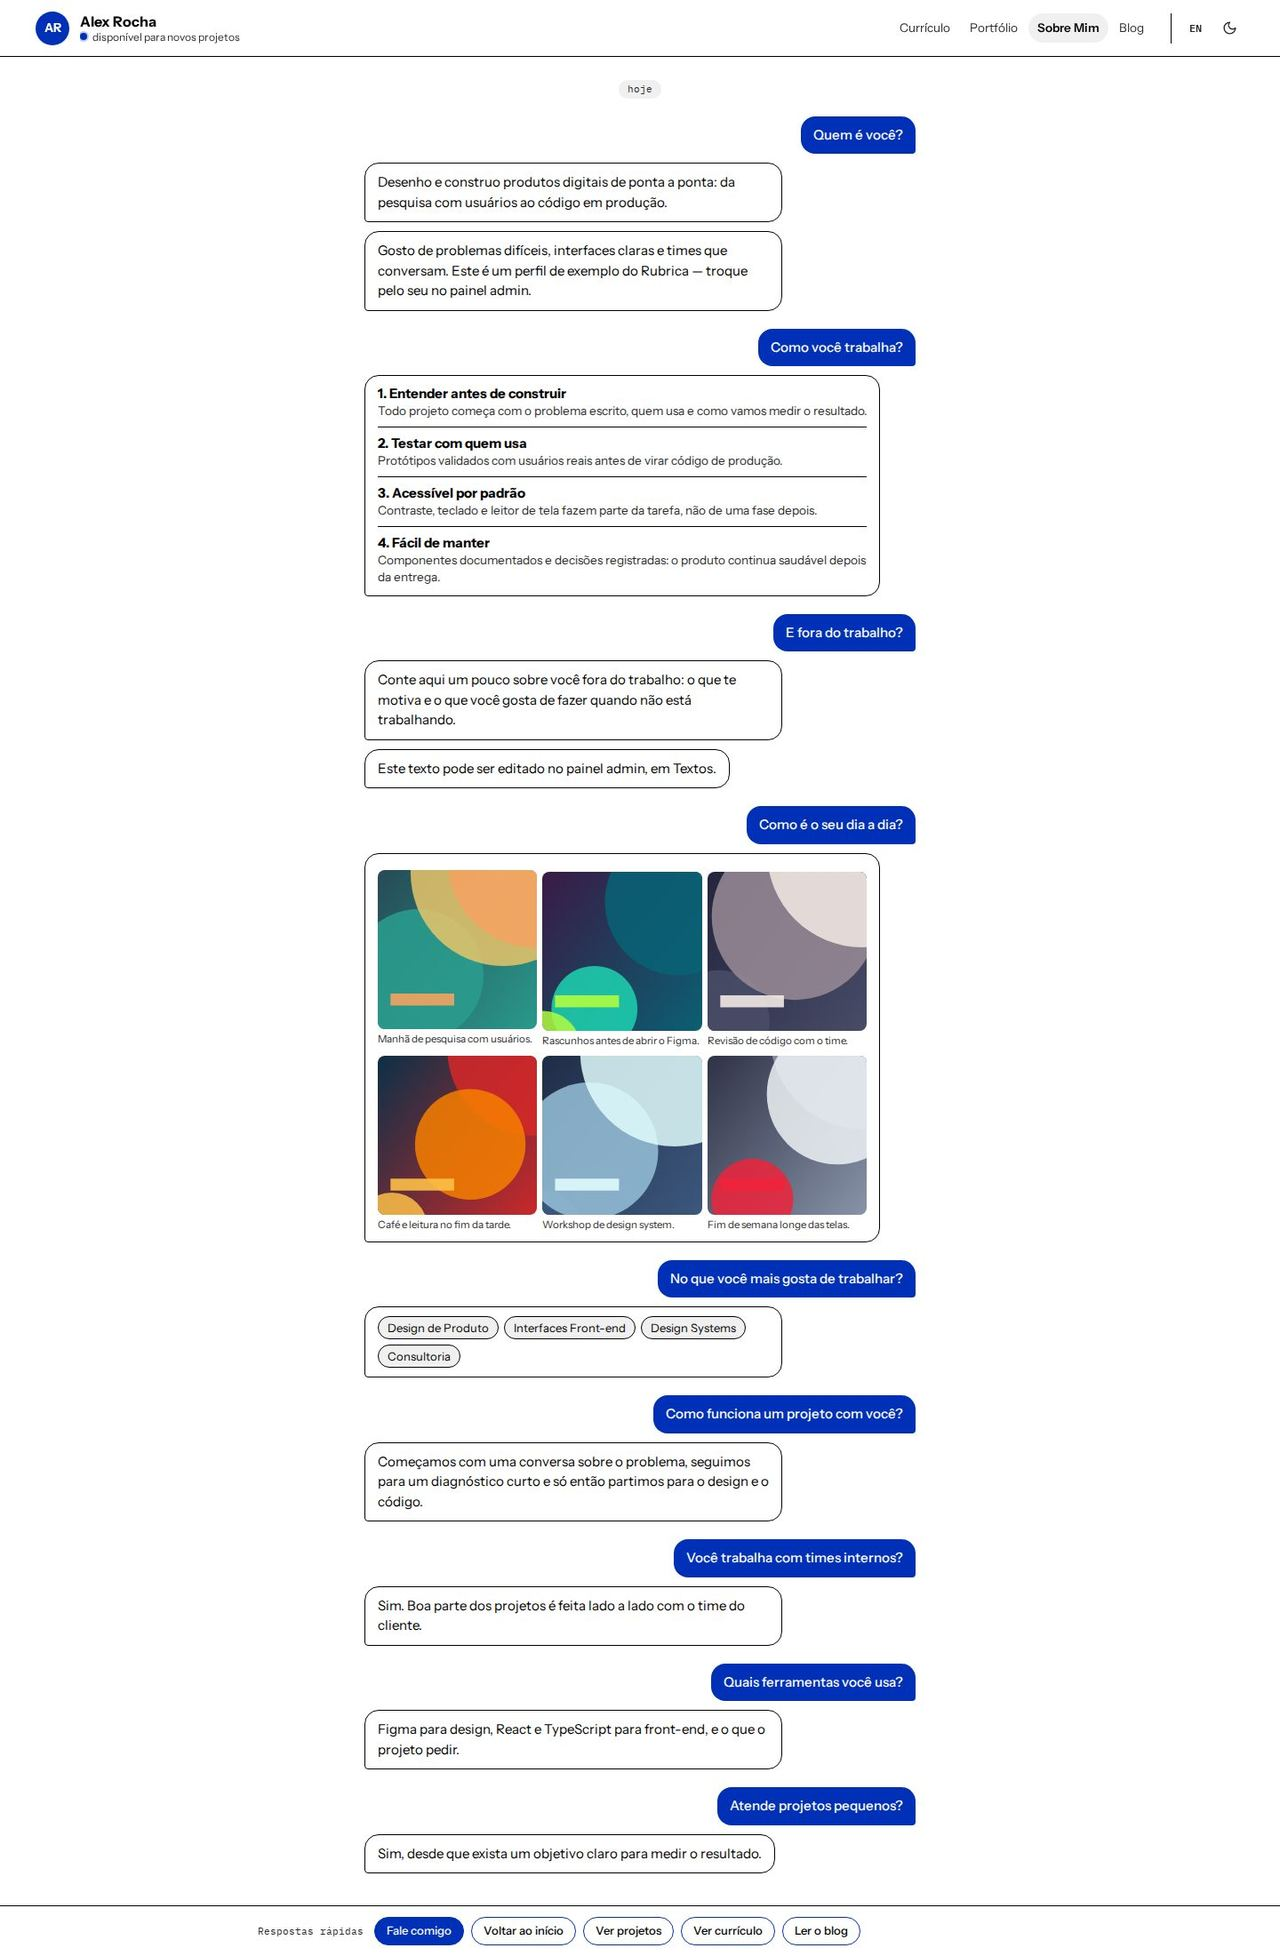
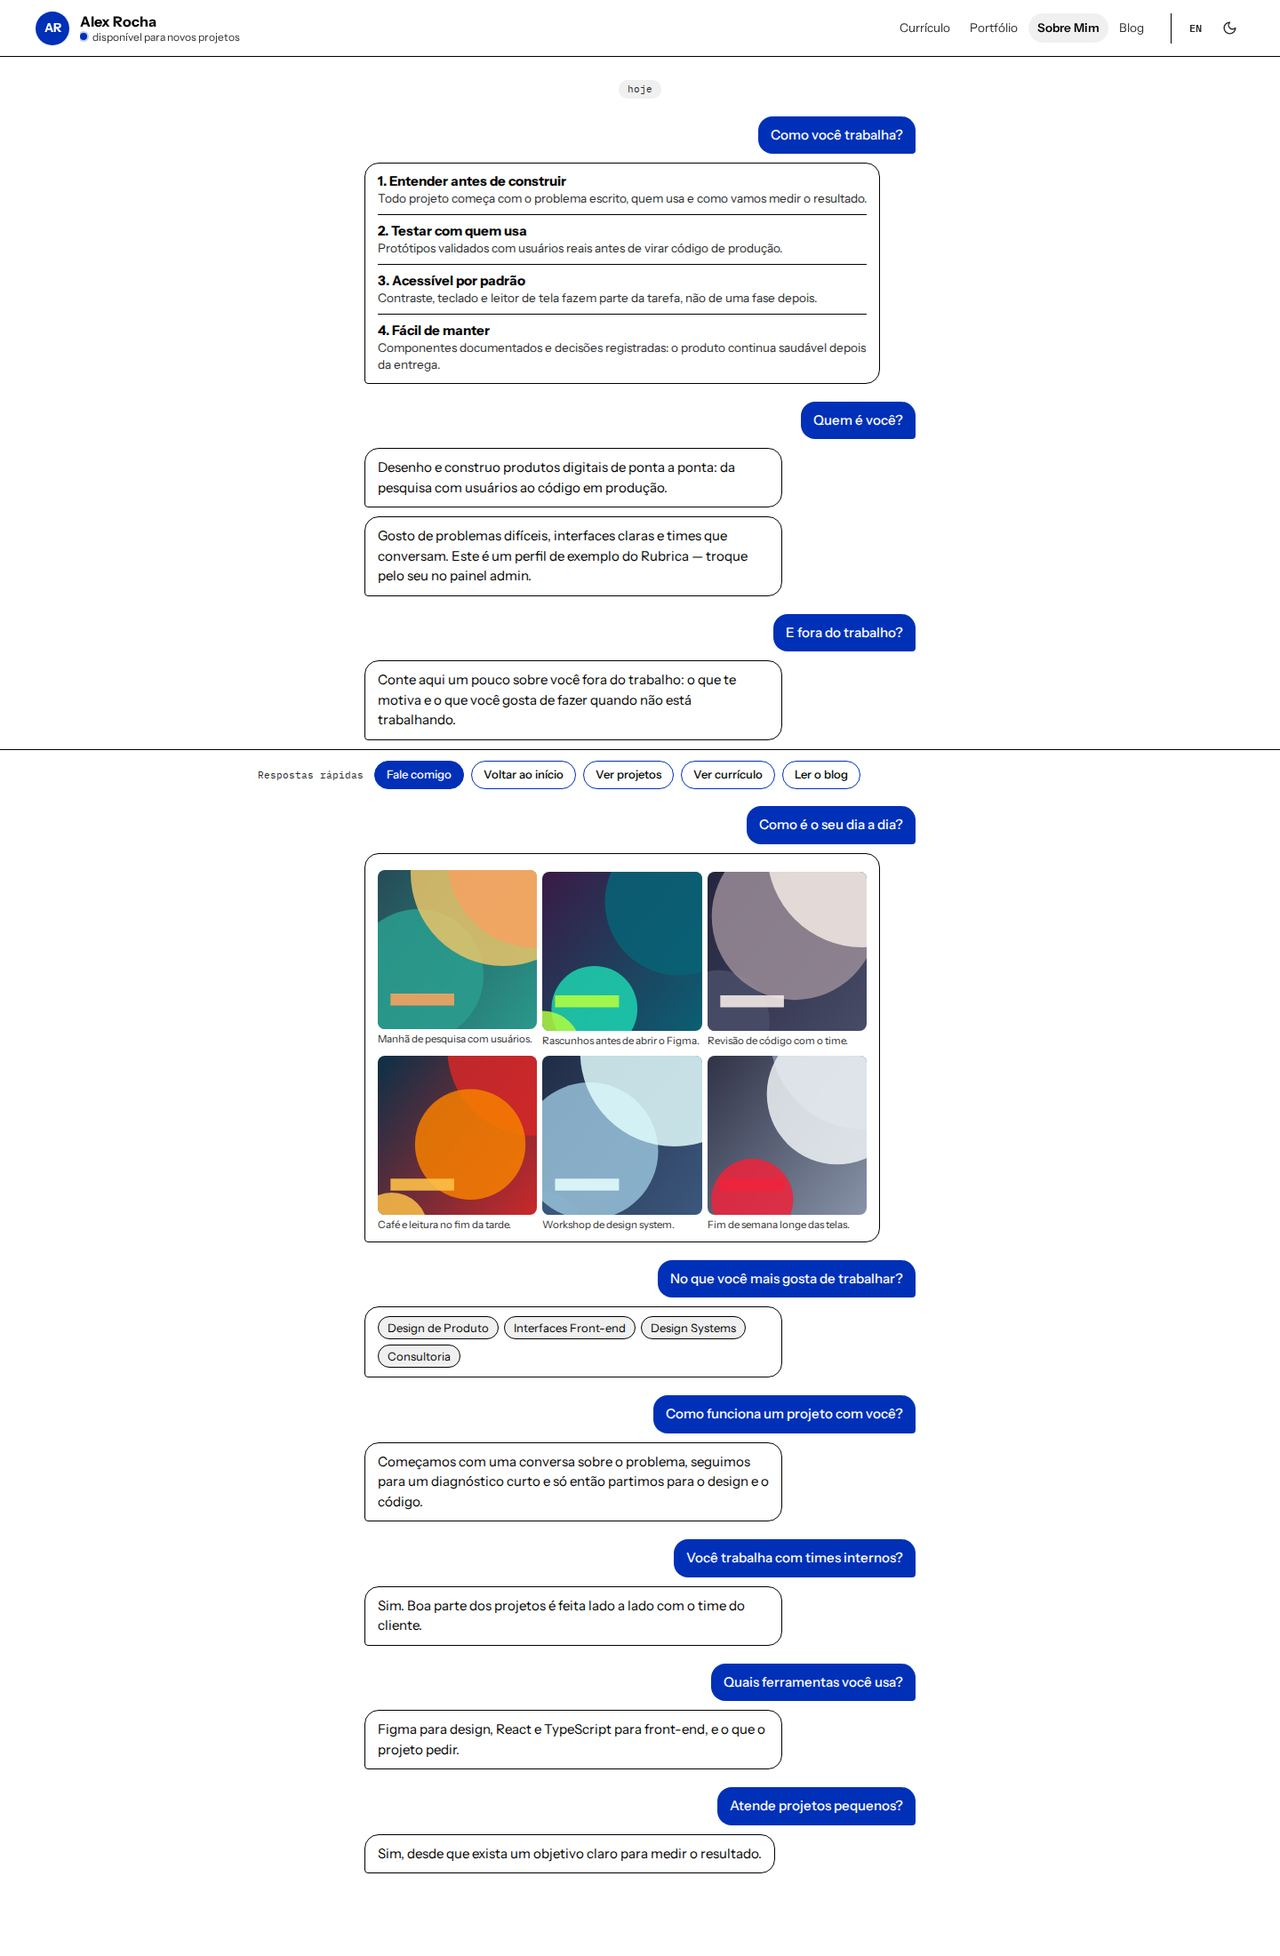
fix(templates): open the About page with work principles in Desktop Retrô and Conversa
All layouts now open About with "Como eu trabalho". In Desktop Retrô the principles
window takes the page title and focus; Sobre.txt opens the page only when there are no
principles.

Changed region(s): [[0.2812, 0.0624, 0.7188, 0.3119], [0.25, 0.9668, 0.6875, 0.998], [0.2812, 0.3742, 0.6562, 0.4054]]

diff --git a/templates/layouts/desktop/pages/About.tsx b/templates/layouts/desktop/pages/About.tsx
@@ -25,35 +25,20 @@ export default function DesktopAbout() {
   const professional = splitParagraphs(aboutText);
   const personal = splitParagraphs(t("about.aboutMe.text"));
   const interests = services.map((s) => s.title).filter(Boolean);
+  const hasPrinciples = principles.length > 0;
 
   return (
     <>
       <SEO title={t("about.title")} description={t("about.seoDescription")} url="/sobre" />
       <WindowStack>
-        {/* Sobre.txt: resumo profissional */}
-        <Window title={copy.aboutFile} titleAs="div" active width={700}>
-          <div className="dk-pad dk-hero">
-            {contactName && <p className="dk-role">&gt; whoami → {contactName}</p>}
-            <h1>{t("about.title")}</h1>
-            {professional.length > 0 ? (
-              <div className="dk-txt">
-                <h2 className="dk-sr">{t("about.professional.title")}</h2>
-                {professional.map((p, i) => (
-                  <p key={i}>
-                    <Highlighted text={p} />
-                  </p>
-                ))}
-              </div>
-            ) : (
-              <p className="dk-desc">{t("about.subtitle")}</p>
-            )}
-          </div>
-        </Window>
-
-        {/* Como eu trabalho: painéis de Preferências do Sistema */}
-        {principles.length > 0 && (
-          <Window title={copy.preferences} titleAs="div" width={880} offset={120}>
-            <h2 className="dk-sr">{t("about.principles.title")}</h2>
+        {/* Como eu trabalho abre a página: painéis de Preferências do Sistema */}
+        {hasPrinciples && (
+          <Window title={copy.preferences} titleAs="div" active width={880}>
+            <div className="dk-pad dk-hero">
+              {contactName && <p className="dk-role">&gt; whoami → {contactName}</p>}
+              <h1>{t("about.title")}</h1>
+              <h2 className="dk-sr">{t("about.principles.title")}</h2>
+            </div>
             <ul className="dk-panels">
               {principles.map((principle, i) => (
                 <li key={`${principle.title}-${i}`} className="dk-panel">
@@ -69,6 +54,26 @@ export default function DesktopAbout() {
             </ul>
           </Window>
         )}
+
+        {/* Sobre.txt: resumo profissional (abre a página quando não há princípios) */}
+        <Window title={copy.aboutFile} titleAs="div" active={!hasPrinciples} width={700} offset={hasPrinciples ? 120 : undefined}>
+          <div className="dk-pad dk-hero">
+            {!hasPrinciples && contactName && <p className="dk-role">&gt; whoami → {contactName}</p>}
+            {!hasPrinciples && <h1>{t("about.title")}</h1>}
+            {professional.length > 0 ? (
+              <div className="dk-txt">
+                <h2 className={hasPrinciples ? undefined : "dk-sr"}>{t("about.professional.title")}</h2>
+                {professional.map((p, i) => (
+                  <p key={i}>
+                    <Highlighted text={p} />
+                  </p>
+                ))}
+              </div>
+            ) : (
+              <p className="dk-desc">{t("about.subtitle")}</p>
+            )}
+          </div>
+        </Window>
 
         {/* Fora do trabalho + interesses, lado a lado */}
         <WindowCluster>

diff --git a/templates/layouts/chat/pages/About.tsx b/templates/layouts/chat/pages/About.tsx
@@ -25,20 +25,7 @@ export default function ChatAbout() {
       <h1 className="ct-sr">{t("about.title")}</h1>
       <DayChip />
 
-      {/* Quem é: o resumo profissional, um balão por parágrafo */}
-      {professional.length > 0 && (
-        <ChatSection title={t("about.professional.title")} ask={text.qWho}>
-          {professional.map((para, i) => (
-            <Bubble key={i}>
-              <p>
-                <Highlighted text={para} />
-              </p>
-            </Bubble>
-          ))}
-        </ChatSection>
-      )}
-
-      {/* Como eu trabalho: os princípios, numa resposta só */}
+      {/* Como eu trabalho abre a conversa: os princípios, numa resposta só */}
       {principles.length > 0 && (
         <ChatSection title={t("about.principles.title")} ask={text.qPrinciples}>
           <Bubble wide>
@@ -53,6 +40,19 @@ export default function ChatAbout() {
               ))}
             </ol>
           </Bubble>
+        </ChatSection>
+      )}
+
+      {/* Quem é: o resumo profissional, um balão por parágrafo */}
+      {professional.length > 0 && (
+        <ChatSection title={t("about.professional.title")} ask={text.qWho}>
+          {professional.map((para, i) => (
+            <Bubble key={i}>
+              <p>
+                <Highlighted text={para} />
+              </p>
+            </Bubble>
+          ))}
         </ChatSection>
       )}
 

diff --git a/docs/templates/desktop.md b/docs/templates/desktop.md
@@ -65,8 +65,8 @@ Os botões imitam os do sistema antigo: borda grossa, cantos levemente arredonda
 
 ![Sobre](img/desktop/sobre.jpg)
 
-- **Sobre.txt** (em foco): o título e o resumo profissional em mono, com os números em destaque.
-- **Preferências do Sistema — Como eu trabalho**: os princípios de trabalho como painéis numerados (01, 02…).
+- **Preferências do Sistema — Como eu trabalho** (em foco): abre a página com o título e os princípios de trabalho como painéis numerados (01, 02…).
+- **Sobre.txt**: o resumo profissional em mono, com os números em destaque. Sem princípios cadastrados, é ele que abre a página, em foco e com o título.
 - **Pessoal.txt** (o texto "Fora do trabalho") e **Interesses** (os serviços da home em etiquetas), lado a lado.
 - **Fotos — Meu dia a dia**: as fotos com a legenda e as tags **sempre visíveis** abaixo de cada imagem (nada de texto por cima da foto).
 - **Ajuda — Perguntas frequentes**: o FAQ em itens recolhíveis (`<details>`), com o "?" que acende ao abrir.
@@ -86,5 +86,4 @@ Os botões imitam os do sistema antigo: borda grossa, cantos levemente arredonda
 - Projetos sem case e sem link de demo ou repositório ficam sem ação (o mesmo dos outros layouts).
 - A caixa de entrada da home mostra até 6 depoimentos; o resto fica em "Ver todos os depoimentos".
 - O tamanho das fotos do "dia a dia" (`span_size`) é ignorado: todas entram no mesmo grid.
-- A ordem do Sobre segue o conceito do layout (Sobre.txt primeiro e "Como eu trabalho" logo depois), não a dos layouts originais, que abrem pelos princípios.
 - O relógio usa a hora de quem visita e atualiza a cada 15 segundos.
